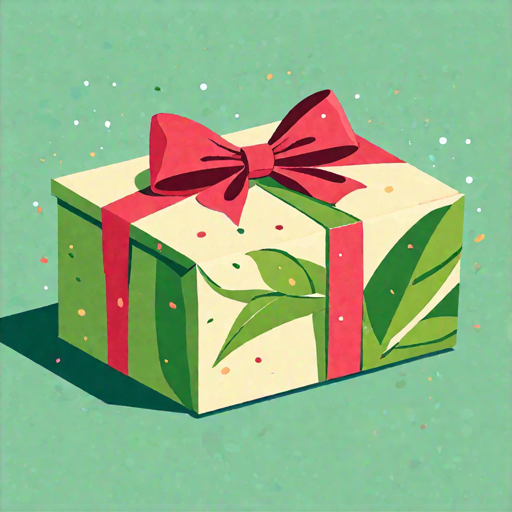
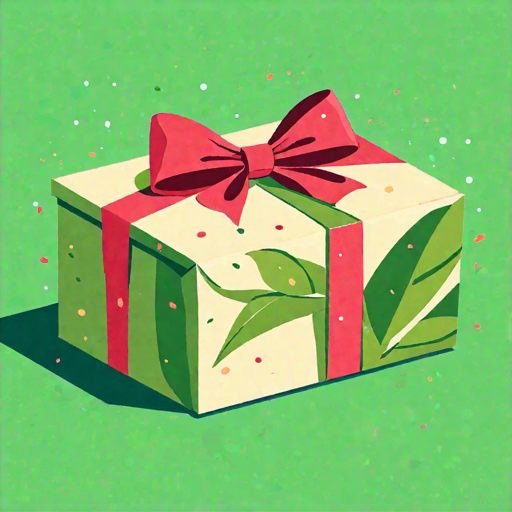
Added more images, styled up a bit more, still working on the backend of splitting the login and signup pages

diff --git a/public/css/style.css b/public/css/style.css
@@ -163,7 +163,6 @@ border-radius: 1px;
 
 /* #endregion */
 /*  * LOGIN-MENU */ /* #region */
-
 #login-menu {
   padding: 64px;
 }
@@ -176,21 +175,26 @@ border-radius: 1px;
 
 /* #endregion */
 /*  * SIGNUP-MENU */ /* #region */
+#signup-menu {
+  padding: 64px;
+}
+
 #signup-menu label {
   text-decoration: underline;
   font-size: 24px;
+  padding-left: 20px;
 }
 
 /* #endregion */
 /*  * MAIN-LOGIN-DIV */ /* #region */
-  #main-login-div {
-    display: flex;
-    flex-direction: column;
-    align-items: center;
-    justify-content: center;
-    height: 100%;
-    padding-top: 8px;
-  }
+#main-login-div {
+  display: flex;
+  flex-direction: column;
+  align-items: center;
+  justify-content: center;
+  height: 100%;
+  padding-top: 8px;
+}
 /* #endregion */
 /*  * MAIN-LOGIN-BTNS */ /* #region */
 #main-login-btns {
@@ -278,11 +282,15 @@ border-radius: 1px;
 #img-container {
   padding-left: 0;
   padding-right: 0;
-  padding: 10px;
+  display: flex;
+  flex-flow: column;
+  justify-content: space-between;
+  align-items: center;
 }
 
 .main-menu-img {
-  width: 100%
+  width: 100%;
+  height: 100%;
 }
 
 form .form-input {
@@ -298,7 +306,13 @@ form .form-input {
 #btn-xxl {
   font-size: xx-large;
 }
+
 #calendar {
   color: var(--dark);
   /* background-color: var(--green6); */
+}
+
+.login-img {
+  height: 45%;
+  width: 80%;
 }
